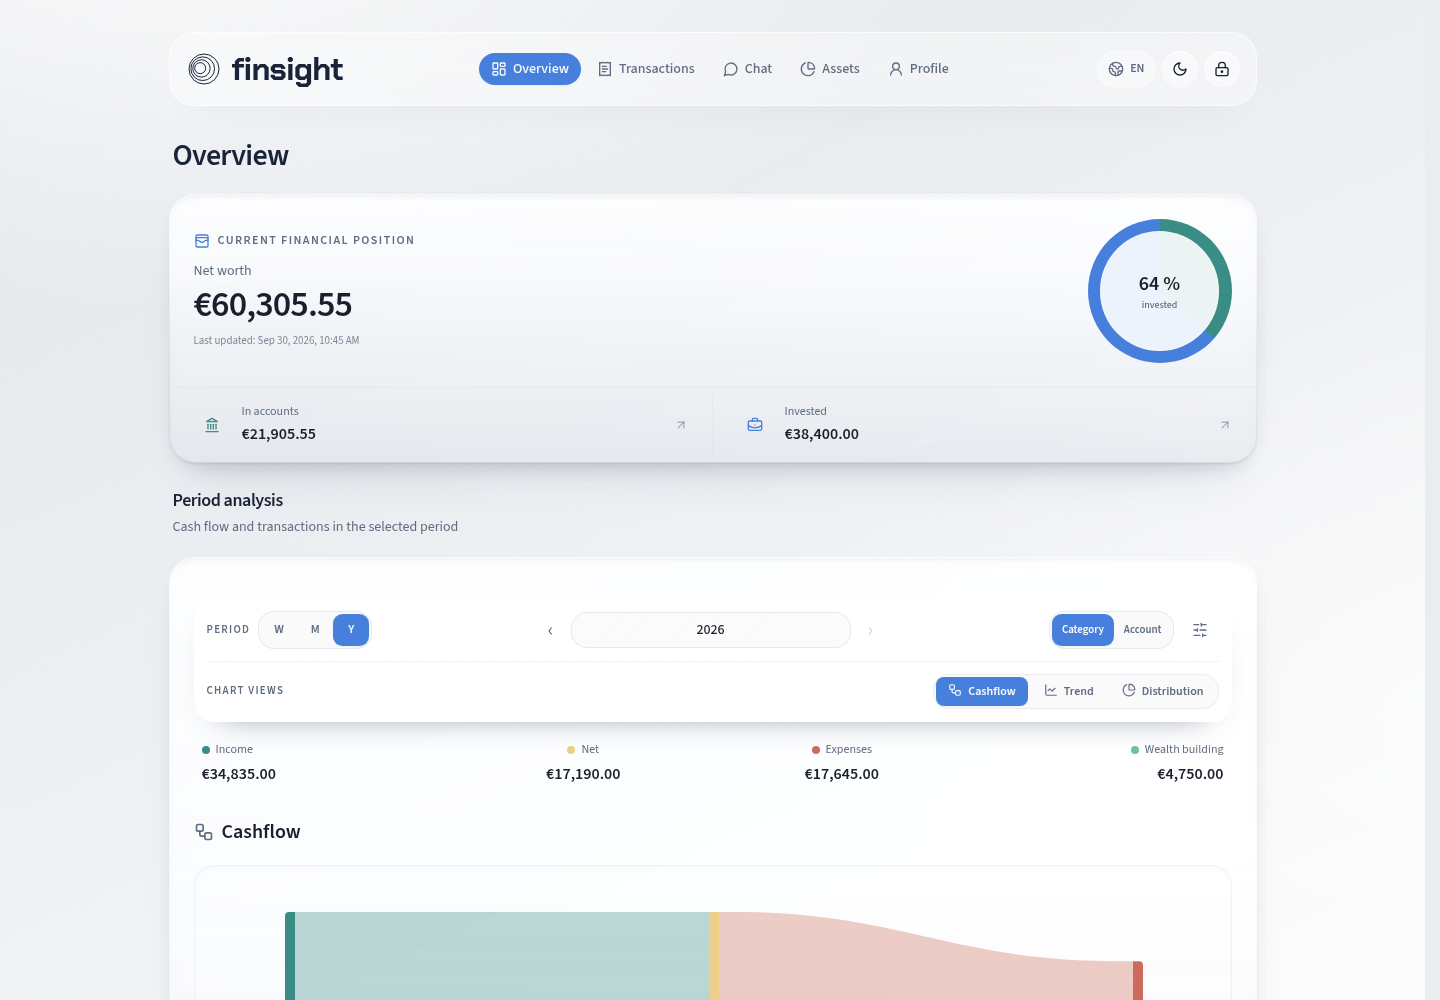
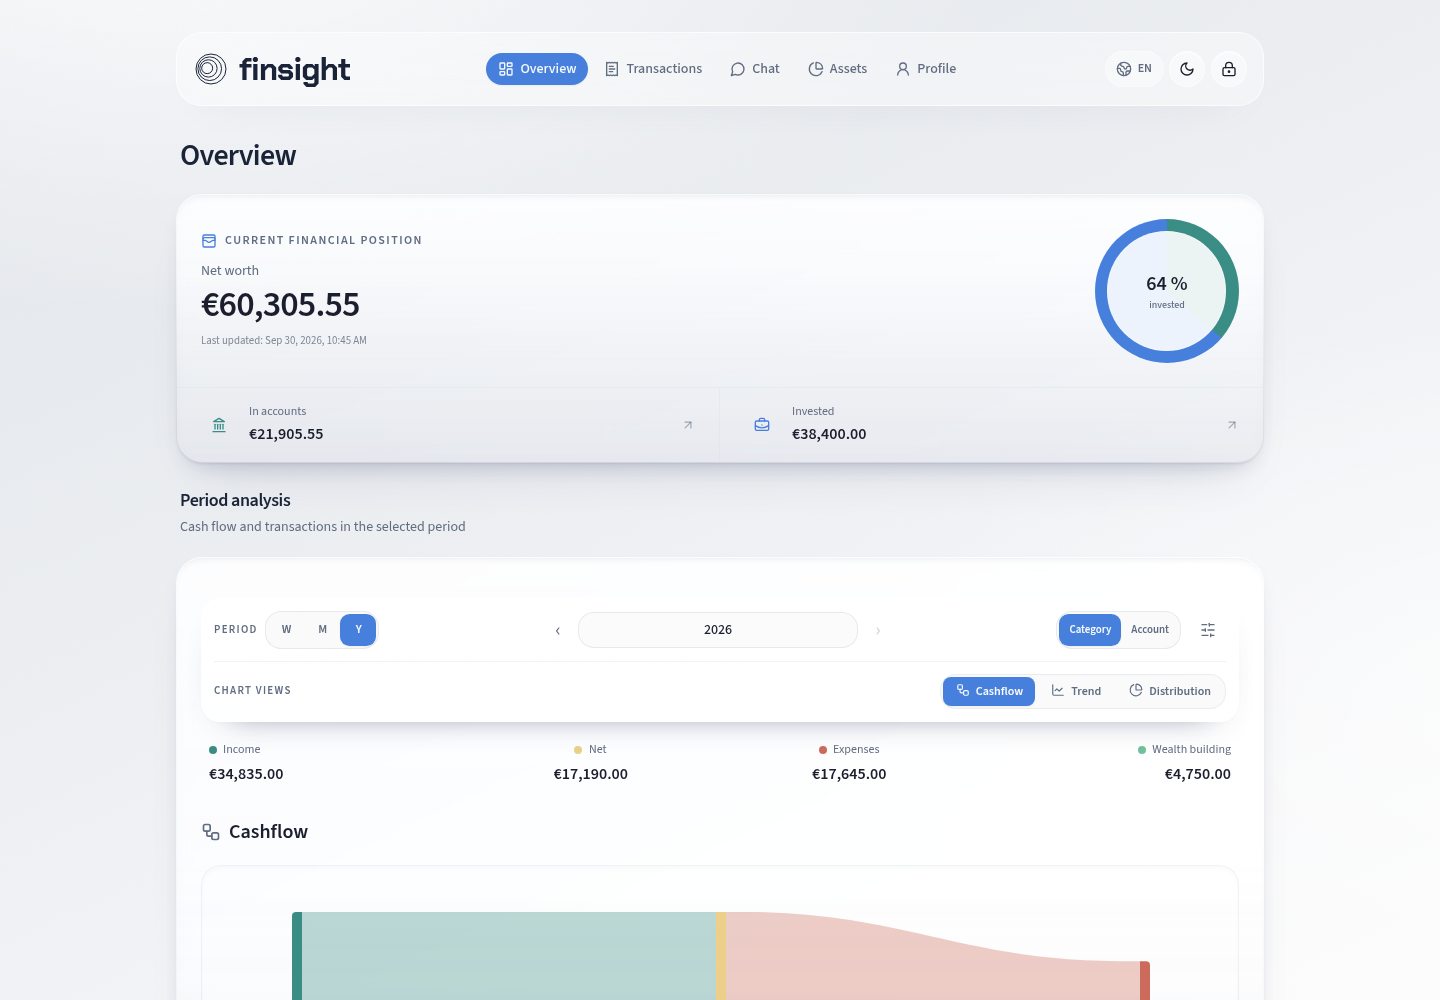
Fix/screenshot scrollbar edge (#3)

diff --git a/frontend/screenshots/screenshots.spec.ts b/frontend/screenshots/screenshots.spec.ts
@@ -15,6 +15,10 @@ async function prepare(page: Page, route: string, viewport: { width: number; hei
   await page.waitForLoadState("networkidle");
   await page.addStyleTag({
     content: `
+      html {
+        scrollbar-gutter: auto !important;
+      }
+
       *, *::before, *::after {
         animation-duration: 0s !important;
         animation-delay: 0s !important;
